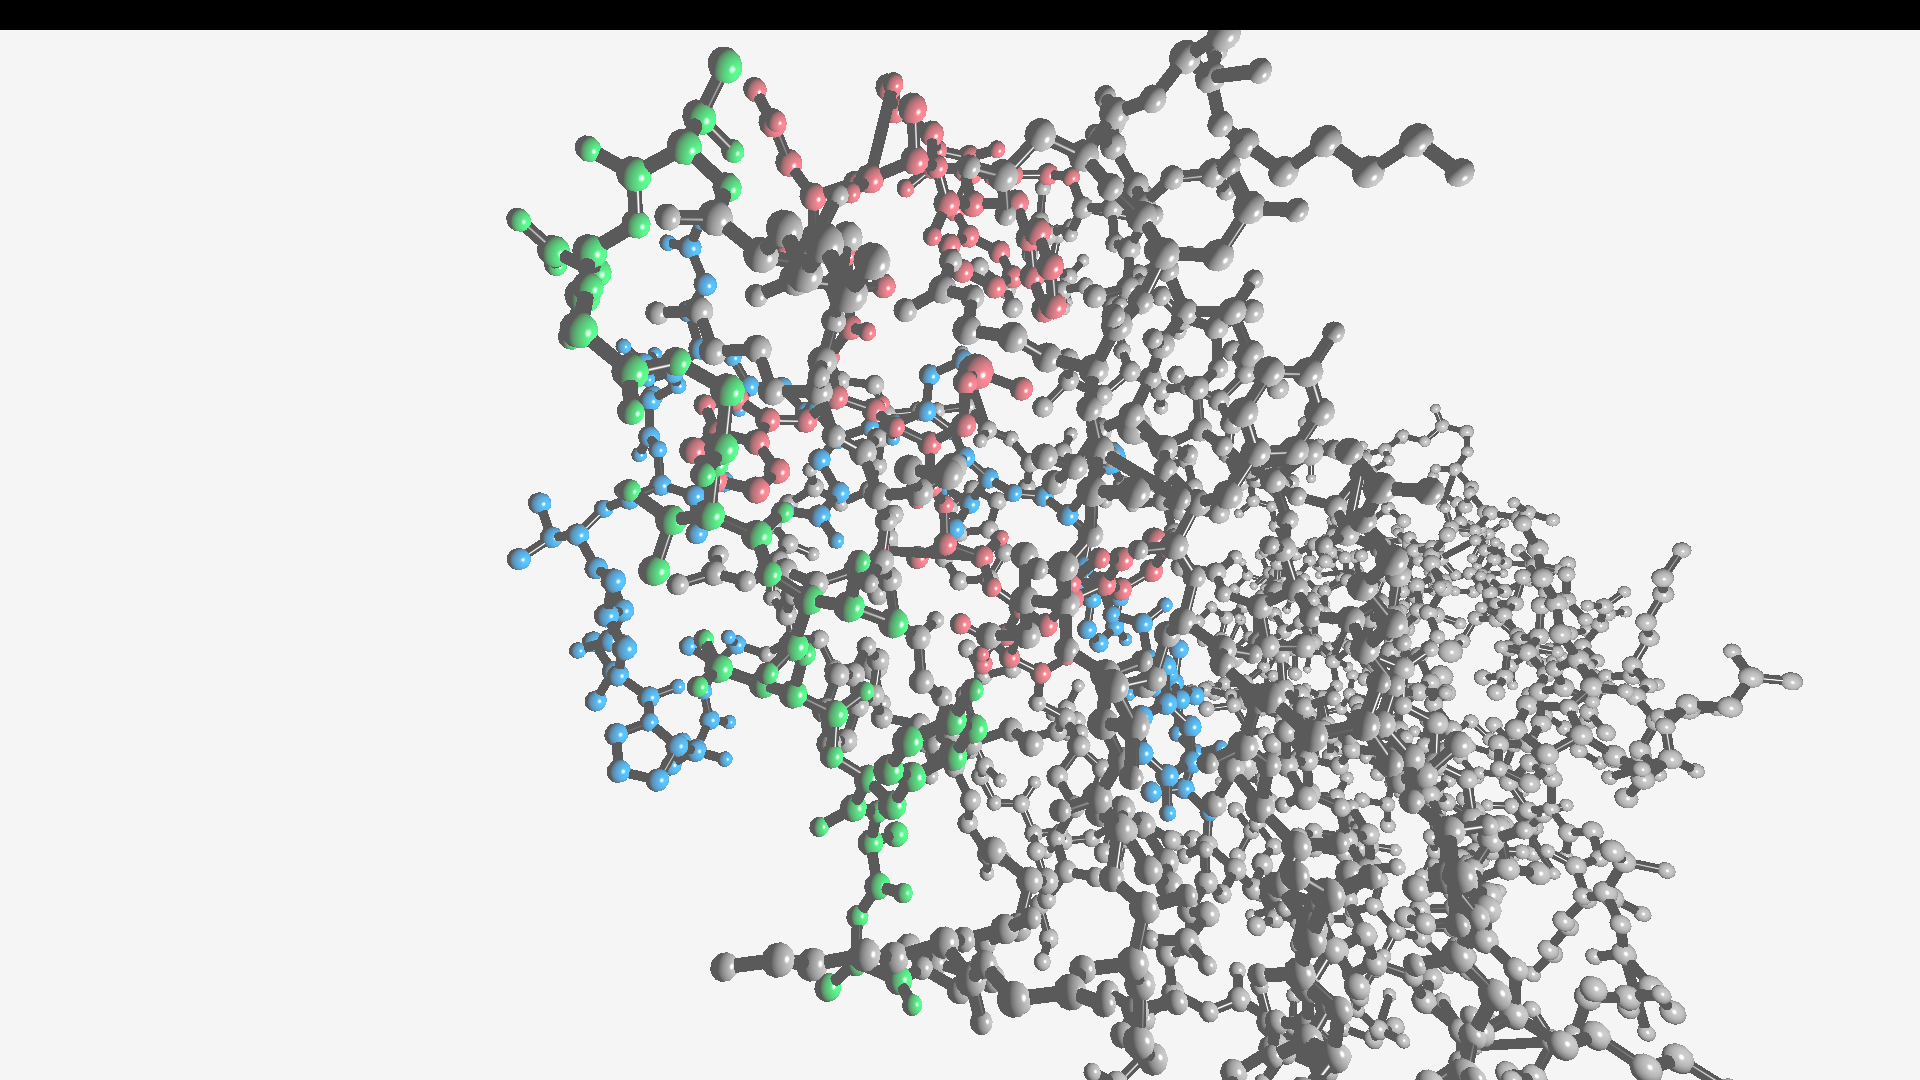
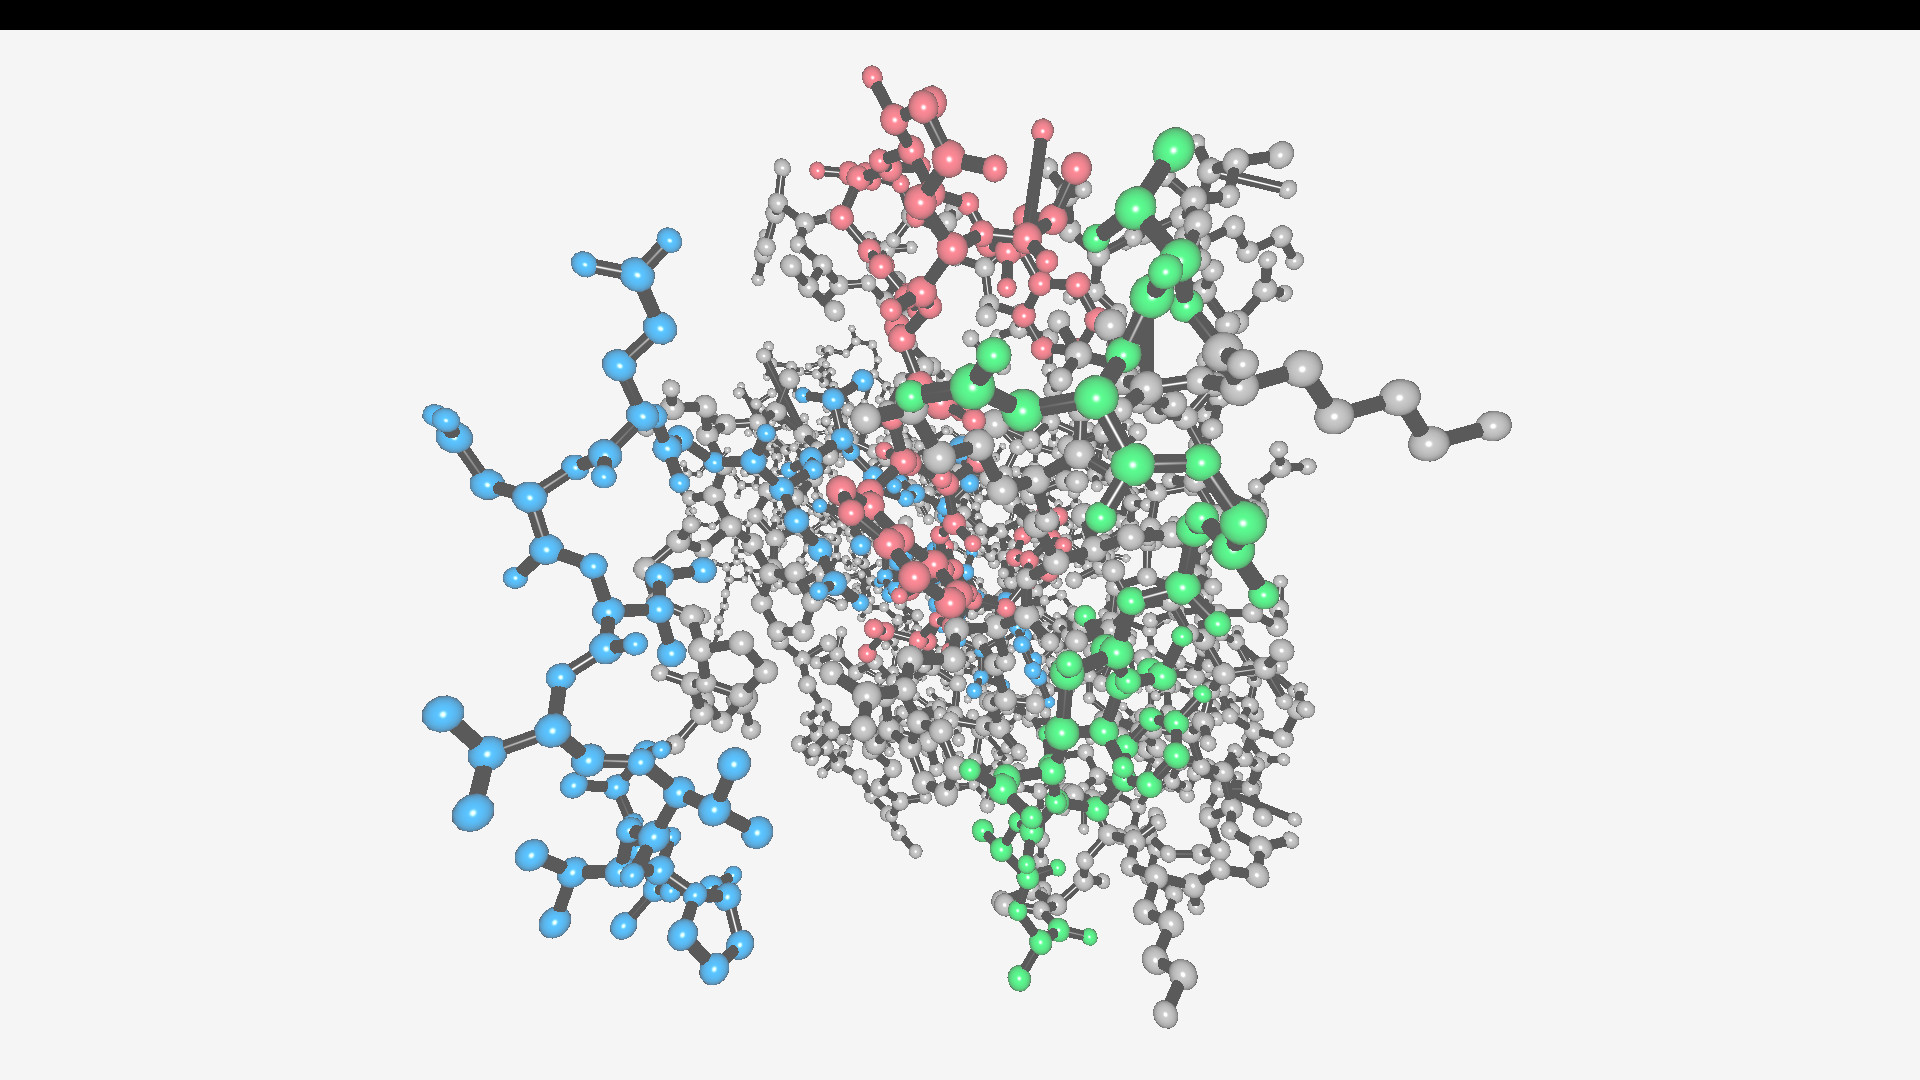
cdr render commit

Changed region(s): [[0.2188, 0.0306, 0.9062, 1.0], [0.9062, 0.6111, 0.9375, 0.6417], [0.25, 0.1833, 0.2812, 0.2139]]

diff --git a/PdbGraphicEngine/PdbGraphicEngine.py b/PdbGraphicEngine/PdbGraphicEngine.py
@@ -68,7 +68,6 @@ class GraphicEngine:
             )
         return transforms_container
 
-
     def run(self):
         shader = load_shader("shaders/default.vert", "shaders/default.frag")
 
@@ -86,8 +85,7 @@ class GraphicEngine:
                          ShaderUniformDataType.SHADER_UNIFORM_VEC3)
         set_shader_value(shader, get_shader_location(shader, "specular_intensity"), Vector3(1.0, 1.0, 1.0),
                          ShaderUniformDataType.SHADER_UNIFORM_VEC3)
-        set_shader_value(shader, get_shader_location(shader, "light_pos"), Vector3(-10.0, 0.0, 24.0),
-                         ShaderUniformDataType.SHADER_UNIFORM_VEC3)
+
 
         # materials
         base_atoms_material: Material = load_material_default()
@@ -202,6 +200,8 @@ class GraphicEngine:
                 cdr3_bonds_transform = in_place_array_mat_mul(cdr3_bonds_transform, spin_matrix)
 
             set_shader_value(shader, shader.locs[ShaderLocationIndex.SHADER_LOC_VECTOR_VIEW], self.camera.position,
+                             ShaderUniformDataType.SHADER_UNIFORM_VEC3)
+            set_shader_value(shader, get_shader_location(shader, "light_pos"), self.camera.position,
                              ShaderUniformDataType.SHADER_UNIFORM_VEC3)
             # Draw
             begin_drawing()
